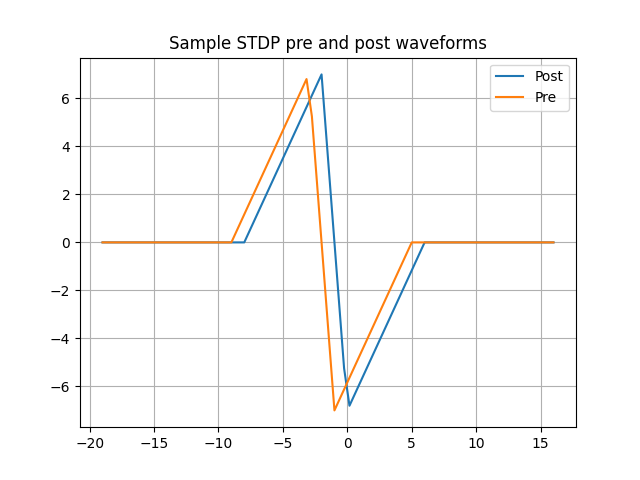
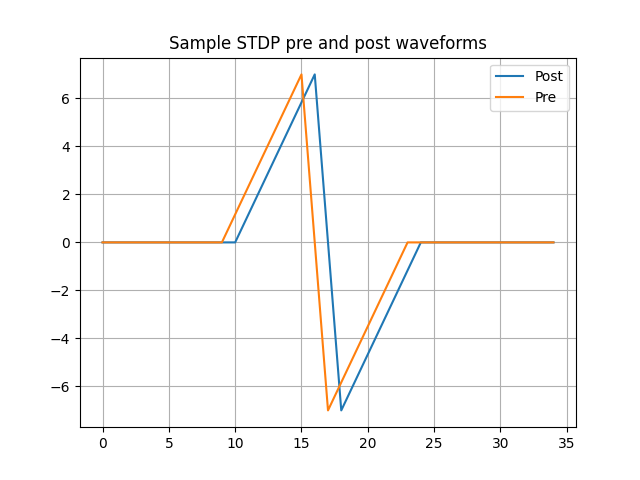
Changed to match keithly input

diff --git a/wave_gen.py b/wave_gen.py
@@ -69,141 +69,48 @@ import numpy as np
 
 
 #-------------------------------------
-# Create the time array
-#-------------------------------------
-def gen_time_array(times:list[float], post_times: list[float], N:int, offset:float):
-    t0 = times[0]
-    t5 = times[-1]
-    t0_p = post_times[0]
-    t5_p = post_times[-1]
-    
-    t_pre = np.linspace(t0,t5,5*N)
-    t_post = np.linspace(t0_p,t5_p,5*N)
-
-    t_o = min([t0,t0_p]) # lowest time
-    t_f = max([t5,t5_p])  # highest time
-    t_before = np.linspace(t_o-offset,t_o,N+15)
-    t_after = np.linspace(t_f,t_f+offset,N+15)
-    
-    return np.unique(np.concatenate((t_before,t_pre,t_post,t_after))), t_o, t_f
-#-------------------------------------
 # Define a presynaptic pulse spike
 #-------------------------------------
 
-def presynaptic_pulse_spike(V_max:float, V_min:float, V_start: float, discerete_times:list, offset:float, t:np.ndarray, t_o: float, t_f: float, N) -> list[float]:
+def presynaptic_pulse_spike(V_max:float, V_min:float, discerete_times:list, offset:float) -> np.ndarray:
 
     t0, t1, t2, t3, t4, t5 = discerete_times
 
-    V = []
-
-    m1 = (V_max-V_start) / (t1-t0)
-    b1 = V_max - m1*t1
-    m2 = (V_min-V_max) / (t3-t2)
-    b2 = V_min - m2*t3
-    m3 = (V_start-V_min) / (t5-t4)
-    b3 = V_start - m3*t5
-
-    def f(x):
-        return m1*x+b1
-    def g(x):
-        return m2*x+b2
-    def h(x):
-        return m3*x+b3
-
-    for n in range(len(t)):
-        if (t[n]>=t0) and (t[n]<t1):
-            V.append(f(t[n]))
-        elif (t[n]>=t1) and (t[n]<t2): # I'm not sure why Jason put this in because it never triggers the hypothesis of the conditional
-            V.append(V_max)
-        elif (t[n]>=t2) and (t[n]<t3):
-            V.append(g(t[n]))
-        elif (t[n]>=t3) and (t[n]<t4): # I'm not sure why Jason put this in because it never triggers the hypothesis of the conditional
-            V.append(V_min)
-        elif (t[n]>=t4) and (t[n]<t5):
-            V.append(h(t[n]))
-        else:
-            if (t[n]>=t_o-2*(t_o-(t_o-offset))/(N-1)) and (t[n]<t_o):
-                V.append(0)
-            elif (t[n]>t_f) and (t[n]<=t_f+2*((t_f+offset)-t_f)/(N-1)):
-                V.append(0)
-            else:
-                V.append(V_start)
-
+    V = np.array([
+        [0., 0., offset],
+        [0., V_max, t1-t0],
+        [V_max, V_min, t3-t2],
+        [V_min,0.,t5-t4],
+        [0.,0.,offset]
+    ])
+        
     return V
 
 #-------------------------------------
 # Define a postsynaptic pulse spike
 #-------------------------------------
 
-def postsynaptic_pulse_spike(V_max:float, V_min:float, V_start: float, post_times: list, t:np.ndarray) -> list[float]:
+def postsynaptic_pulse_spike(V_max:float, V_min:float, post_times: list, offset:float) -> np.ndarray:
 
     t0_p, t1_p, t2_p, t3_p, t4_p, t5_p = post_times
 
-    V_prime = []
-
-    m1_p = (V_max-V_start)/(t1_p-t0_p)
-    b1_p = V_max - m1_p*t1_p
-    m2_p = (V_min-V_max)/(t3_p-t2_p)
-    b2_p = V_min - m2_p*t3_p
-    m3_p = (V_start-V_min)/(t5_p-t4_p)
-    b3_p = V_start - m3_p*t5_p
-
-    def f(x):
-        return m1_p*x+b1_p
-    def g(x):
-        return m2_p*x+b2_p
-    def h(x):
-        return m3_p*x+b3_p
-
-    for n in range(len(t)):
-        if (t[n]>=t0_p) and (t[n]<t1_p):
-            V_prime.append(f(t[n]))
-        elif (t[n]>=t1_p) and (t[n]<t2_p):
-            V_prime.append(V_max)
-        elif (t[n]>=t2_p) and (t[n]<t3_p):
-            V_prime.append(g(t[n]))
-        elif (t[n]>=t3_p) and (t[n]<t4_p):
-            V_prime.append(V_min)
-        elif (t[n]>=t4_p) and (t[n]<t5_p):
-            V_prime.append(h(t[n]))
-        else:
-            V_prime.append(V_start)
-    
+    V_prime = np.array([
+        [0., 0., offset],
+        [0., V_max, t1_p-t0_p],
+        [V_max, V_min, t3_p-t2_p],
+        [V_min,0.,t5_p-t4_p],
+        [0.,0.,offset]
+    ])
+        
     return V_prime
 
     #-------------------------------------
     # Get output points as start channel voltage, end channel voltage, segment
     # time
-    '''result_pre = []
-    for i in range(1,len(p)):
-        seg_time = (p[i,0]-p[i-1,0])*10**(-6)
-        start_V = p[i-1,1]
-        end_V = p[i,1]
-        
-        row = np.array([start_V,end_V,seg_time])
-        result_pre = np.vstack((result_pre,row)) if len(result_pre)>0 else np.array([row])
-
-    result_post = []
-    for i in range(1,len(p_prime)):
-        seg_time = (p_prime[i,0]-p_prime[i-1,0])*10**(-6)
-        start_V = p_prime[i-1,1]
-        end_V = p_prime[i,1]
-        
-        row = np.array([start_V,end_V,seg_time])
-        result_post = np.vstack((result_post,row)) if len(result_post)>0 else np.array([row])
-
-    result_diff = []
-    for i in range(1,len(p)):
-        seg_time = (p[i,0]-p[i-1,0])*10**(-6)
-        start_V = p_prime[i-1,1]-p[i-1,1]
-        end_V = p_prime[i,1]-p[i,1]
-        
-        row = np.array([start_V,end_V,seg_time])
-        result_diff = np.vstack((result_diff,row)) if len(result_diff)>0 else np.array([row])'''
 
 
-def save_synaptic_pulses(file_path:str,times:np.ndarray,pre_voltages:list,post_voltages:list) -> None: 
-    headers = ["time (s)", "pre-voltage (V)", "post-voltage(V)"]
+def save_synaptic_pulses(file_path:str,pre_voltages:list,post_voltages:list) -> None: 
+    headers = ["pre-voltage (V)", "post-voltage(V)","rise time (us)"]
     header_str = ','.join(headers)
-    array = np.column_stack([times,pre_voltages,post_voltages])
-    np.savetxt(file_path,array,fmt="%16f",delimiter=",",header=header_str)
+    np.savetxt("pre-"+file_path,pre_voltages,fmt="%16f",delimiter=",",header=header_str)
+    np.savetxt("post-"+file_path,post_voltages,fmt="%16f",delimiter=",",header=header_str)

diff --git a/main.py b/main.py
@@ -1,4 +1,4 @@
-from wave_gen import postsynaptic_pulse_spike, gen_time_array, presynaptic_pulse_spike, save_synaptic_pulses
+from wave_gen import postsynaptic_pulse_spike, presynaptic_pulse_spike, save_synaptic_pulses
 import matplotlib.pyplot as plt
 
 #--------------------------------------------------------------------------
@@ -15,7 +15,6 @@ delta_t5_p = 8.
 V_start = 0. # start voltage
 V_max = 7. # maximum voltage
 V_min = -7. #minimum voltage 
-N = 5 # partitions per time interval
 offset = 10. # padding time in between pulses
 vis = True # if True ==> graph the results
 same = True
@@ -47,20 +46,32 @@ else: # same == 1
 times = [t0,t1,t2,t3,t4,t5]
 post_times = [t0_p,t1_p,t2_p,t3_p,t4_p,t5_p]
 
-t, to, tf = gen_time_array(times,post_times,N,offset)
+V = presynaptic_pulse_spike(V_max,V_min, times,offset)
 
-V = presynaptic_pulse_spike(V_max,V_min,V_start,times,offset,t,to,tf,N)
+V_prime = postsynaptic_pulse_spike(V_max,V_min,post_times, offset+delta_T)
 
-V_prime = postsynaptic_pulse_spike(V_max,V_min,V_start,post_times,t)
-
-save_synaptic_pulses("synaptic_pulses.csv",t,V,V_prime)
+save_synaptic_pulses("synaptic_pulses.csv",V,V_prime)
 
 
 if vis == 1:
-    plt.plot(t,V)
-    plt.plot(t,V_prime)
+    pre_times = [0.]
+    post_times = [0.]
+    pre_voltage = [0.]
+    post_voltages = [0.]
+    for i in range(V.shape[0]):
+        pre_times.append(V[i,-1]+pre_times[-1])
+        post_times.append(V_prime[i,-1]+post_times[-1])
+        pre_voltage.append(V[i,-2])
+        post_voltages.append(V_prime[i,-2])
+
+    pre_times[-1] = max(pre_times[-1],post_times[-1])
+    post_times[-1] = pre_times[-1]
+
+    plt.plot(pre_times,pre_voltage)
+    plt.plot(post_times,post_voltages)
     plt.title('Sample STDP pre and post waveforms')
     plt.legend(['Post','Pre'],loc='upper right')
 
     plt.grid(True)
+    plt.savefig("Figure_1.png")
     plt.show()
